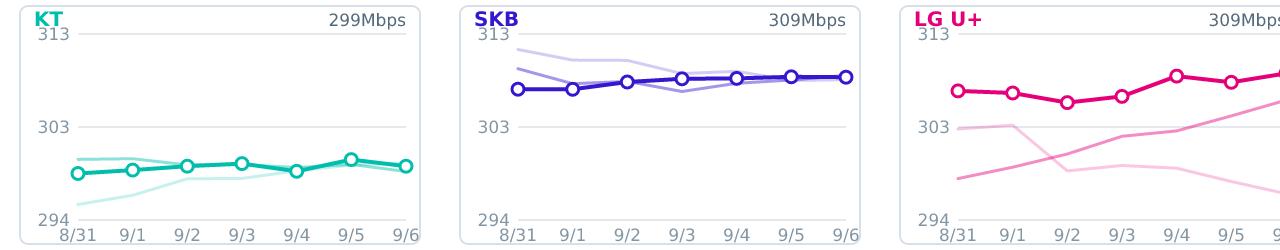
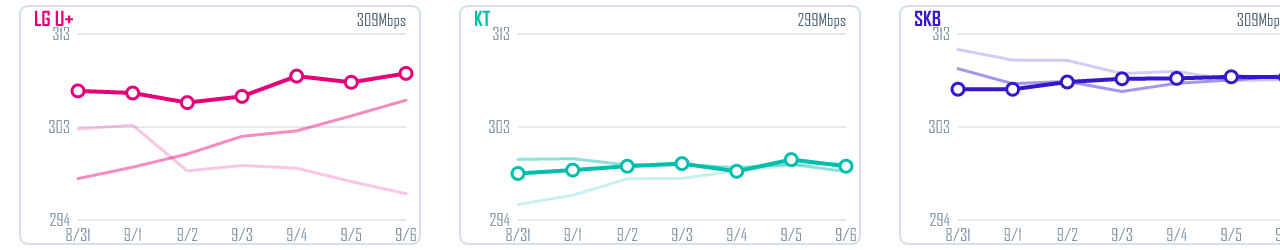
feat(alert): 주간 추이 차트 패널 순서 LG U+ → KT → SKB

diff --git a/scripts/weekly-charts.ts b/scripts/weekly-charts.ts
@@ -15,7 +15,7 @@ const DAY = 86400000;
 // src/theme.ts BRAND_COLORS 와 동일(그 모듈은 브라우저 저장소를 만지므로 Node에서 import하지 않고 값만 복제).
 const ISP_COLOR: Record<string, string> = { kt: '#00BEAC', skb: '#3617CE', lgu: '#E5007A' };
 const ISP_LABEL: Record<string, string> = { kt: 'KT', skb: 'SKB', lgu: 'LG U+' };
-export const CHART_ISPS = ['kt', 'skb', 'lgu'];
+export const CHART_ISPS = ['lgu', 'kt', 'skb']; // 패널 순서: LG U+ 맨 앞(2026-09-09 사용자 지정)
 const WEEK_STYLE = [ // [0]=지난주 [1]=1주 전 [2]=2주 전
   { opacity: 1, width: 4, dots: true },
   { opacity: 0.45, width: 3, dots: false },
